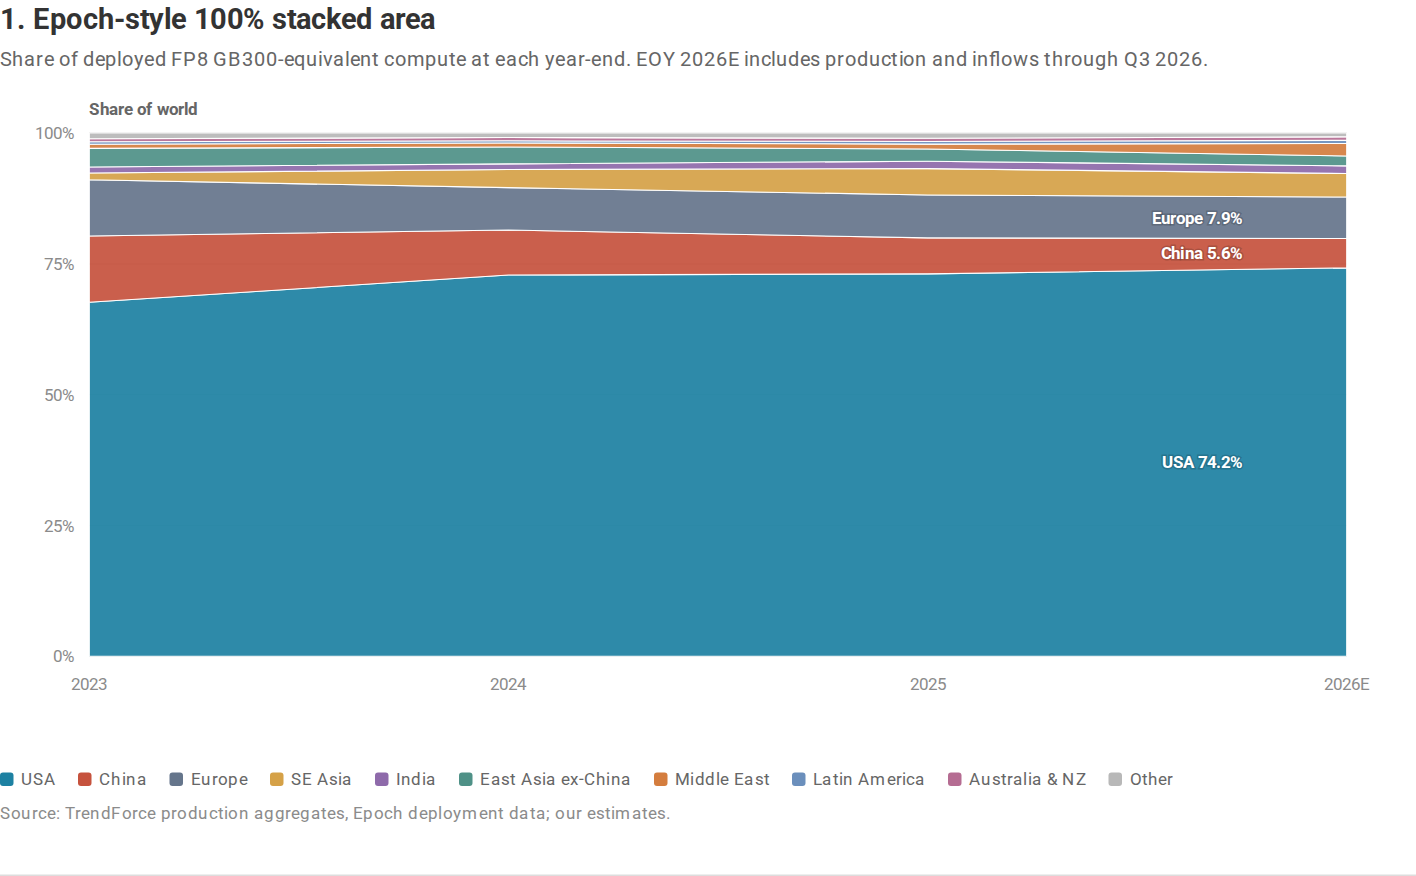
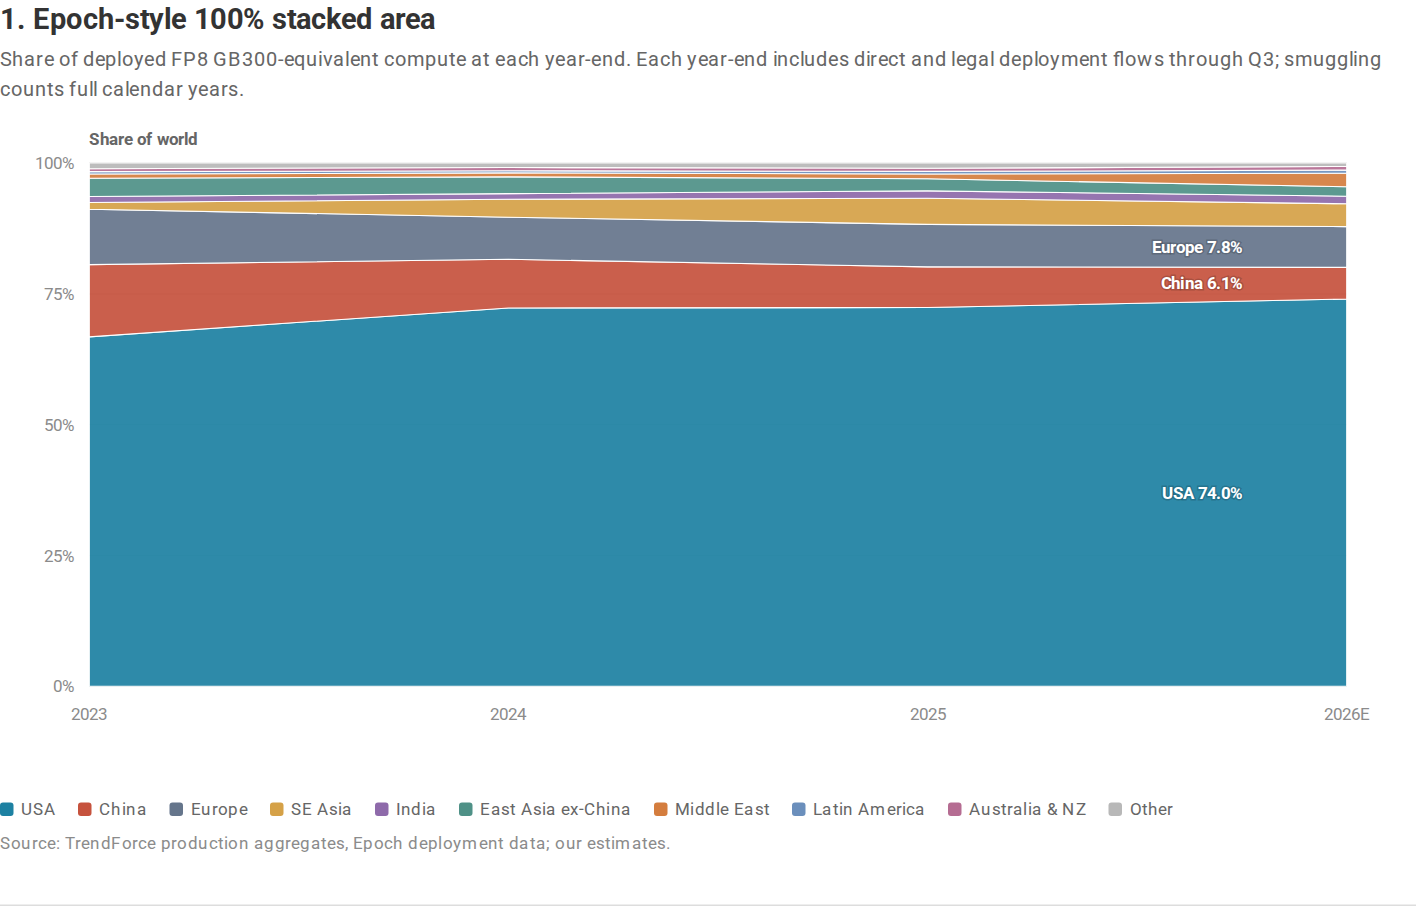
Refresh regional compute prototype data

diff --git a/docs/compute-over-time.html b/docs/compute-over-time.html
@@ -109,7 +109,7 @@
   <section class="prototype" aria-labelledby="title-1">
     <div class="chart-head">
       <h2 id="title-1">1. Epoch-style 100% stacked area</h2>
-      <p class="chart-subtitle">Share of deployed FP8 GB300-equivalent compute at each year-end. EOY 2026E includes production and inflows through Q3 2026.</p>
+      <p class="chart-subtitle">Share of deployed FP8 GB300-equivalent compute at each year-end. Each year-end includes direct and legal deployment flows through Q3; smuggling counts full calendar years.</p>
     </div>
     <div class="chart" id="chart-1"></div>
     <div class="legend" id="legend-1" aria-label="Regions"></div>
@@ -119,7 +119,7 @@
   <section class="prototype" aria-labelledby="title-2">
     <div class="chart-head">
       <h2 id="title-2">2. China-focus annotated</h2>
-      <p class="chart-subtitle">Share of deployed FP8 GB300-equivalent compute at each year-end. EOY 2026E includes production and inflows through Q3 2026.</p>
+      <p class="chart-subtitle">Share of deployed FP8 GB300-equivalent compute at each year-end. Each year-end includes direct and legal deployment flows through Q3; smuggling counts full calendar years.</p>
     </div>
     <div class="chart" id="chart-2"></div>
     <p class="chart-source">Source: TrendForce production aggregates, Epoch deployment data; our estimates.</p>
@@ -128,7 +128,7 @@
   <section class="prototype" aria-labelledby="title-3">
     <div class="chart-head">
       <h2 id="title-3">3. Share lines</h2>
-      <p class="chart-subtitle">Share of deployed FP8 GB300-equivalent compute at each year-end. EOY 2026E includes production and inflows through Q3 2026.</p>
+      <p class="chart-subtitle">Share of deployed FP8 GB300-equivalent compute at each year-end. Each year-end includes direct and legal deployment flows through Q3; smuggling counts full calendar years.</p>
     </div>
     <div class="chart" id="chart-3"></div>
     <p class="chart-source">Source: TrendForce production aggregates, Epoch deployment data; our estimates.</p>
@@ -137,7 +137,7 @@
   <section class="prototype" aria-labelledby="title-4">
     <div class="chart-head">
       <h2 id="title-4">4. Absolute stacked area</h2>
-      <p class="chart-subtitle">Cumulative deployed FP8 GB300-equivalents at each year-end. EOY 2026E includes production and inflows through Q3 2026.</p>
+      <p class="chart-subtitle">Cumulative deployed FP8 GB300-equivalents at each year-end. Each year-end includes direct and legal deployment flows through Q3; smuggling counts full calendar years.</p>
     </div>
     <div class="chart" id="chart-4"></div>
     <div class="legend" id="legend-4" aria-label="Regions"></div>
@@ -153,42 +153,42 @@
     years: [2023, 2024, 2025, 2026],
     yearLabels: ["EOY 2023", "EOY 2024", "EOY 2025", "EOY 2026E"],
     shares: {
-      "USA": [67.65193878034108, 72.8515677875236, 73.08542245562861, 74.2249517163272],
-      "China": [12.679118927540745, 8.605722942967235, 6.872666069664385, 5.613309372100744],
-      "Europe": [10.720850005807181, 8.105201846437163, 8.203563259459552, 7.921667105325157],
-      "SE Asia": [1.2928281588194365, 3.45944697694649, 5.038884957701413, 4.499221985038448],
-      "India": [1.1644959564601225, 1.0820749818213482, 1.4173265580412802, 1.46460619217209],
-      "East Asia ex-China": [3.551354645481273, 3.2277185641804478, 2.344847893039664, 1.882563324467262],
-      "Middle East": [0.8024403310959717, 0.7617735729380518, 0.9187851552876424, 2.401622282103784],
-      "Latin America": [0.4658609997297108, 0.4125479076386282, 0.5012934159668968, 0.5877498100164282],
-      "Australia & NZ": [0.5673683780513423, 0.6278397074276428, 0.6064830817365583, 0.6814778699813114],
-      "Other": [1.1037438166731417, 0.8661057121193916, 1.0107271534740003, 0.722830342467573]
+      "USA": [66.78228660757171, 72.30593067197786, 72.38104612999192, 74.00261980094427],
+      "China": [13.798683161420586, 9.29293670542866, 7.775300663131625, 6.052330939014623],
+      "Europe": [10.583541784961996, 8.042656011050365, 8.118718090223365, 7.792211051816775],
+      "SE Asia": [1.2764615327764104, 3.433131274497235, 4.99613318245341, 4.362920805256391],
+      "India": [1.149553015010006, 1.0738471042734845, 1.4038521989648833, 1.452719840579422],
+      "East Asia ex-China": [3.5072303914425146, 3.203013341727943, 2.317227437508502, 1.786863051820585],
+      "Middle East": [0.7924868967015192, 0.7560071998232559, 0.9099625264910764, 2.607707418024347],
+      "Latin America": [0.4599175593231675, 0.4095289816993022, 0.4964479590102878, 0.5901988728368663],
+      "Australia & NZ": [0.5600266678115135, 0.6233484231291786, 0.6002153050083933, 0.6838961355479803],
+      "Other": [1.0898123829805817, 0.8596002863927144, 1.0010965072165368, 0.6685320841587461]
     },
     intervals2026: {
-      "China": { p10: 4.302684020047999, p50: 5.613309372100744, p90: 8.230865845634422 },
-      "USA": { p10: 67.51223057818766, p50: 74.2249517163272, p90: 78.1900633515454 },
-      "Europe": { p10: 5.581650016095521, p50: 7.921667105325157, p90: 10.890584138788906 },
-      "SE Asia": { p10: 3.133714664169867, p50: 4.499221985038448, p90: 6.405226513199197 },
-      "India": { p10: 0.7624621411248374, p50: 1.46460619217209, p90: 2.4032382954680465 },
-      "East Asia ex-China": { p10: 1.3087058662531376, p50: 1.882563324467262, p90: 2.634160002047948 },
-      "Middle East": { p10: 1.137554726321949, p50: 2.401622282103784, p90: 4.08855951480402 },
-      "Latin America": { p10: 0.3380940817537493, p50: 0.5877498100164282, p90: 0.9795617150270553 },
-      "Australia & NZ": { p10: 0.4143400900158766, p50: 0.6814778699813114, p90: 1.0501901911631915 },
-      "Other": { p10: 0.4505964171398728, p50: 0.722830342467573, p90: 1.114022895701583 }
+      "China": { p10: 4.514527377413835, p50: 6.052330939014623, p90: 9.1393861199388 },
+      "USA": { p10: 66.73499321808368, p50: 74.00261980094427, p90: 78.1142550594023 },
+      "Europe": { p10: 5.40088833925705, p50: 7.792211051816775, p90: 10.924394301469652 },
+      "SE Asia": { p10: 2.949127726800999, p50: 4.362920805256391, p90: 6.401833640427042 },
+      "India": { p10: 0.7362366846643539, p50: 1.452719840579422, p90: 2.428672128850686 },
+      "East Asia ex-China": { p10: 1.2239728729591693, p50: 1.786863051820585, p90: 2.540395966546153 },
+      "Middle East": { p10: 1.1764011111215457, p50: 2.607707418024347, p90: 4.518328413869174 },
+      "Latin America": { p10: 0.3324987446927204, p50: 0.5901988728368663, p90: 1.0123117648528239 },
+      "Australia & NZ": { p10: 0.4093185384783483, p50: 0.6838961355479803, p90: 1.0714512409024162 },
+      "Other": { p10: 0.39988482215103285, p50: 0.6685320841587461, p90: 1.062391786649469 }
     },
     absolute: {
-      "USA": [605175.792643165, 2285087.1309730923, 7062200.025973035, 15074872.664503193],
-      "China": [113420.19142873617, 269930.04195939994, 664101.552196061, 1140046.8717619565],
-      "Europe": [95902.63068644209, 254230.52647612052, 792705.3400998006, 1608867.6400862117],
-      "SE Asia": [11564.905897306073, 108510.19418497686, 486904.39602724713, 913778.9509517248],
-      "India": [10416.918955843737, 33940.733065889675, 136955.40531476442, 297457.2746778965],
-      "East Asia ex-China": [31768.400156488166, 101241.72172825663, 226581.22912515496, 382343.15742862504],
-      "Middle East": [7178.175114782721, 23894.04979331476, 88781.65206577812, 487762.52801501396],
-      "Latin America": [4167.3277197325515, 12940.118425513849, 48439.67861594925, 119370.28370790595],
-      "Australia & NZ": [5075.355031919114, 19693.034471696243, 58604.09219352153, 138406.18115734452],
-      "Other": [9873.464843320386, 27166.567267276416, 97665.95156303996, 146804.74852152698]
+      "USA": [492945.7104127473, 1862681.3080064123, 5813184.5737971505, 15029717.696582615],
+      "China": [101853.38087833129, 239396.39994699712, 624462.6223055194, 1229210.8801602435],
+      "Europe": [78121.1873520901, 207187.77670494423, 652043.7225559563, 1582575.4906517896],
+      "SE Asia": [9422.052898345515, 88441.28543132832, 401257.5929437934, 886096.5762013973],
+      "India": [8485.292379566034, 27663.497450316656, 112748.46639073823, 295043.1911040887],
+      "East Asia ex-China": [25888.214745476984, 82513.19117926783, 186104.9475509346, 362906.7092969969],
+      "Middle East": [5849.650201151273, 19475.587503568295, 73082.39386636227, 529617.8220935118],
+      "Latin America": [3394.828172687202, 10549.922699408968, 39871.53780326285, 119867.68127182133],
+      "Australia & NZ": [4133.771957175399, 16058.149661407742, 48205.4700586314, 138897.3238882387],
+      "Other": [8044.323826492976, 22144.260794933623, 80401.69469479356, 135776.92956061746]
     },
-    worldTotals: [894543, 3136634, 9662939, 20309710.3008114]
+    worldTotals: [738138.4128240641, 2576111.379378585, 8031363.021967141, 20309710.30081132]
   };
   const REGION_ORDER = ["USA", "China", "Europe", "SE Asia", "India", "East Asia ex-China", "Middle East", "Latin America", "Australia & NZ", "Other"];
   const COLORS = {
@@ -316,7 +316,7 @@
       const box = { x: 300, y: 154, w: 432, h: 100 };
       svg.appendChild(el("path", { d: `M${box.x + box.w},${box.y + 15} L${trajectory[3][0] - 8},${trajectory[3][1] + 3}`, class: "annotation-line" }));
       svg.appendChild(el("rect", { x: box.x, y: box.y, width: box.w, height: box.h, rx: 5, class: "callout-box" }));
-      addText(svg, box.x + 14, box.y + 23, "China: 12.7% → 5.6%", "callout-title");
+      addText(svg, box.x + 14, box.y + 23, "China: 13.8% → 6.1%", "callout-title");
       addText(svg, box.x + 14, box.y + 44, "export controls bind while the U.S. buildout compounds", "callout-text");
       addText(svg, box.x + 14, box.y + 68, "2026E p10–p90", "callout-text");
       const interval = DATA.intervals2026.China;

diff --git a/runs/ts-v1/chart-prototypes/build_log.md b/runs/ts-v1/chart-prototypes/build_log.md
@@ -1,16 +1,16 @@
 # Compute-over-time chart prototypes — build log
 
-- **Status:** Published and live-verified.
+- **Status:** Data refresh built and validated locally; publication pending.
 - **Target URL:** https://konstantinpilz.github.io/holy-grail/compute-over-time.html
 - **Data pull:** Live appendix pulled 2026-08-20. Publication-safe aggregate regional shares, aggregate regional GB300e totals, and 2026 p10/p90 share endpoints only.
-- **Source definitions:** EOY 2023–2025 are year-end cumulative estimates. EOY 2026E includes production and inflows through Q3 2026. The model excludes chips shipped in 2021 or earlier and does not retire chips.
+- **Source definitions:** Each year-end counts direct and legal deployment flows through Q3; smuggling counts full calendar years. The model excludes chips shipped in 2021 or earlier and does not retire chips.
 
 ## Data checkpoint
 
-- China p50 share: 12.6791% (EOY 2023), 8.6057% (EOY 2024), 6.8727% (EOY 2025), 5.6133% (EOY 2026E).
-- United States p50 share: 67.6519%, 72.8516%, 73.0854%, 74.2250%.
-- World totals: 894,543; 3,136,634; 9,662,939; 20,309,710 GB300e.
-- 2026E China 80% interval: 4.3027%–8.2309%.
+- China p50 share: 13.7987% (EOY 2023), 9.2929% (EOY 2024), 7.7753% (EOY 2025), 6.0523% (EOY 2026E).
+- United States p50 share: 66.7823%, 72.3059%, 72.3810%, 74.0026%.
+- World totals: 738,138; 2,576,111; 8,031,363; 20,309,710 GB300e.
+- 2026E China 80% interval: 4.5145%–9.1394%.
 
 ## Design decisions
 
@@ -19,8 +19,8 @@
 - Used unrounded p50 values for geometry and one-decimal labels. Each p50 year sums to 100% without a second chart-side normalization.
 - Isolated the USA in a small upper panel for the line variant because its 68–74% range would flatten the other nine series. All line-end labels are direct; there is no legend.
 - Used the China 2026E p10/p90 share endpoints only in variant 2, as a compact 80% interval inside the callout.
-- Plotted world totals as a dashed line at the top of the absolute stack and labeled all four totals: 0.9m, 3.1m, 9.7m, and 20.3m GB300e.
-- Included the 2021-and-earlier scope caveat once at page level. Each chart repeats the unit, through-Q3 2026 definition, and required one-line source note.
+- Plotted world totals as a dashed line at the top of the absolute stack and labeled all four totals: 0.7m, 2.6m, 8.0m, and 20.3m GB300e.
+- Included the 2021-and-earlier scope caveat once at page level. Each chart repeats the unit, the through-Q3/full-year-smuggling convention, and required one-line source note.
 
 ## Validation
 
@@ -30,7 +30,6 @@
 
 ## Publication
 
-- Page commit: `c5356d3` (`Add regional AI compute chart prototypes`).
-- Pushed to `main`; GitHub Pages serves the repository's `docs/` directory.
-- Live URL returned HTTP 200 and rendered all chart SVGs in headless Chromium on 2026-08-20.
+- Initial page commit: `c5356d3` (`Add regional AI compute chart prototypes`).
+- The 2026-08-20 model refresh is pending commit, push, and live verification.
 - Live URL: https://konstantinpilz.github.io/holy-grail/compute-over-time.html
